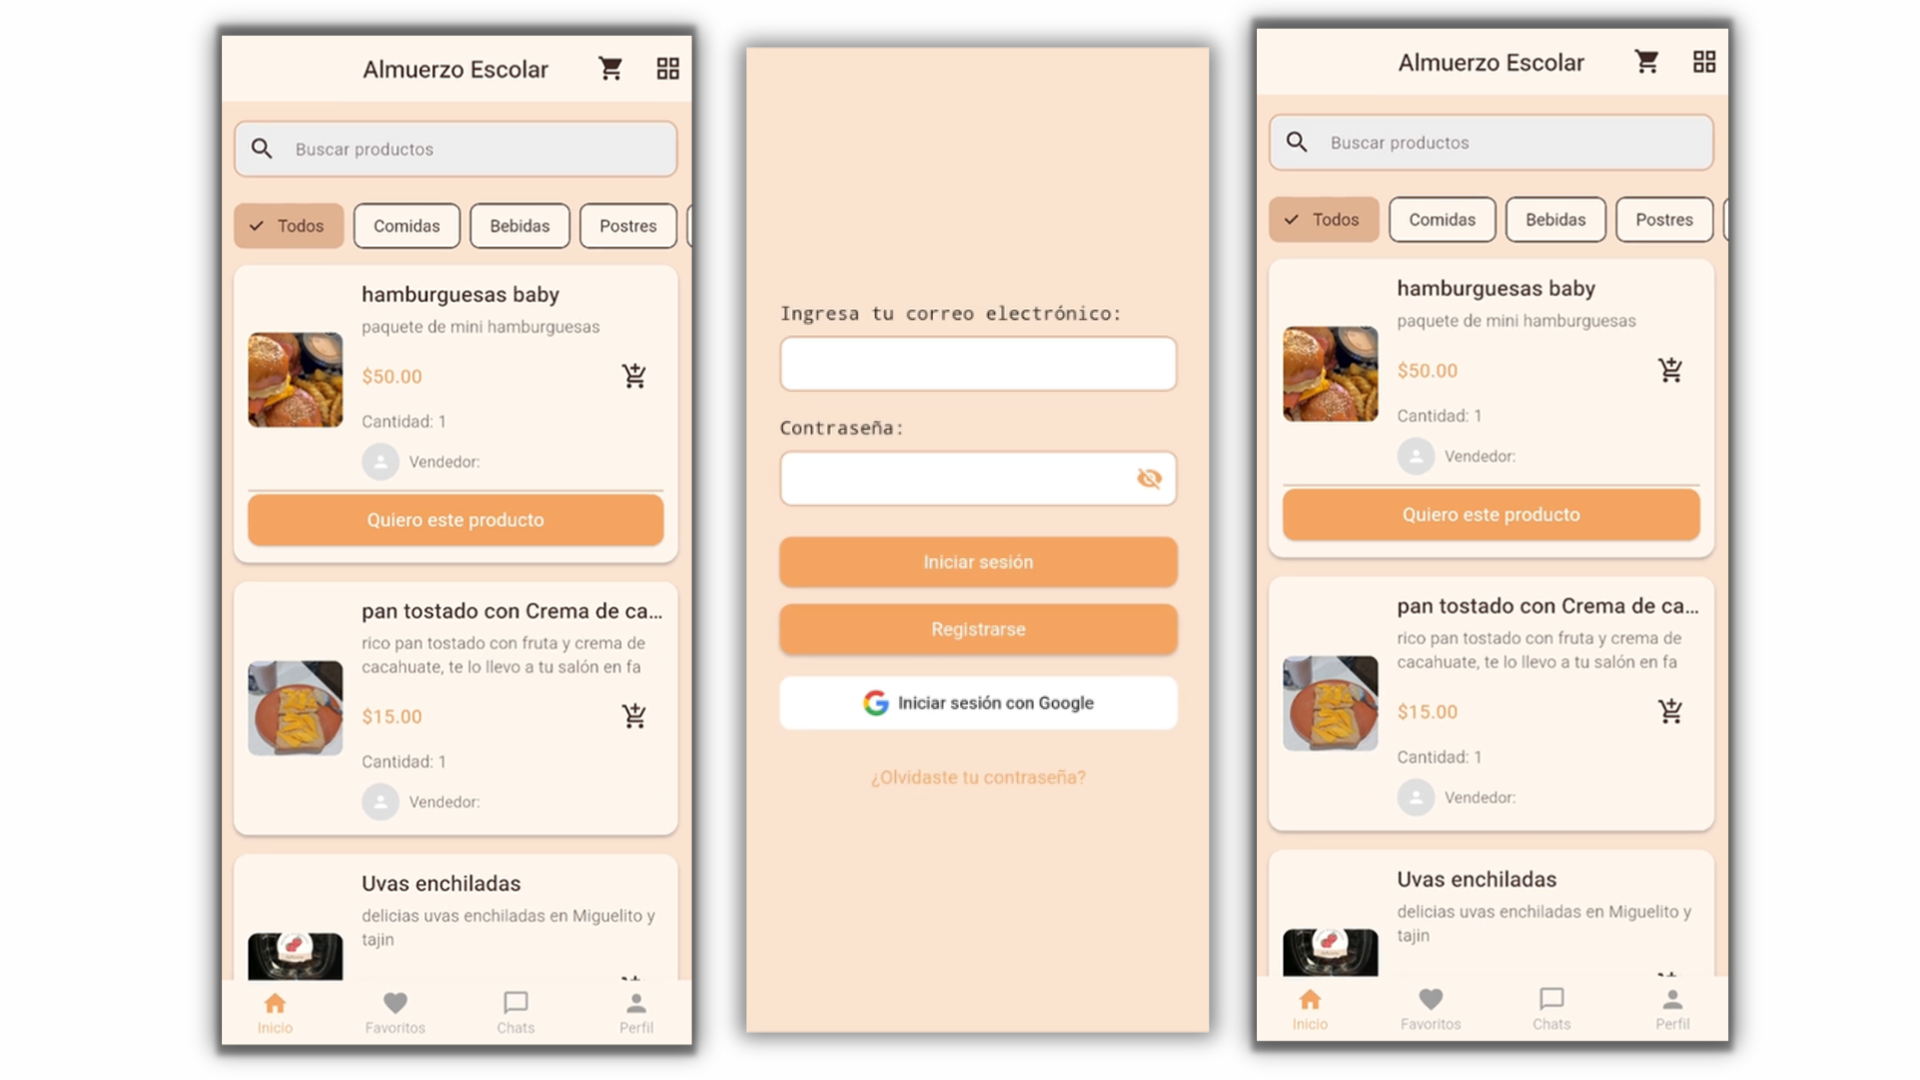
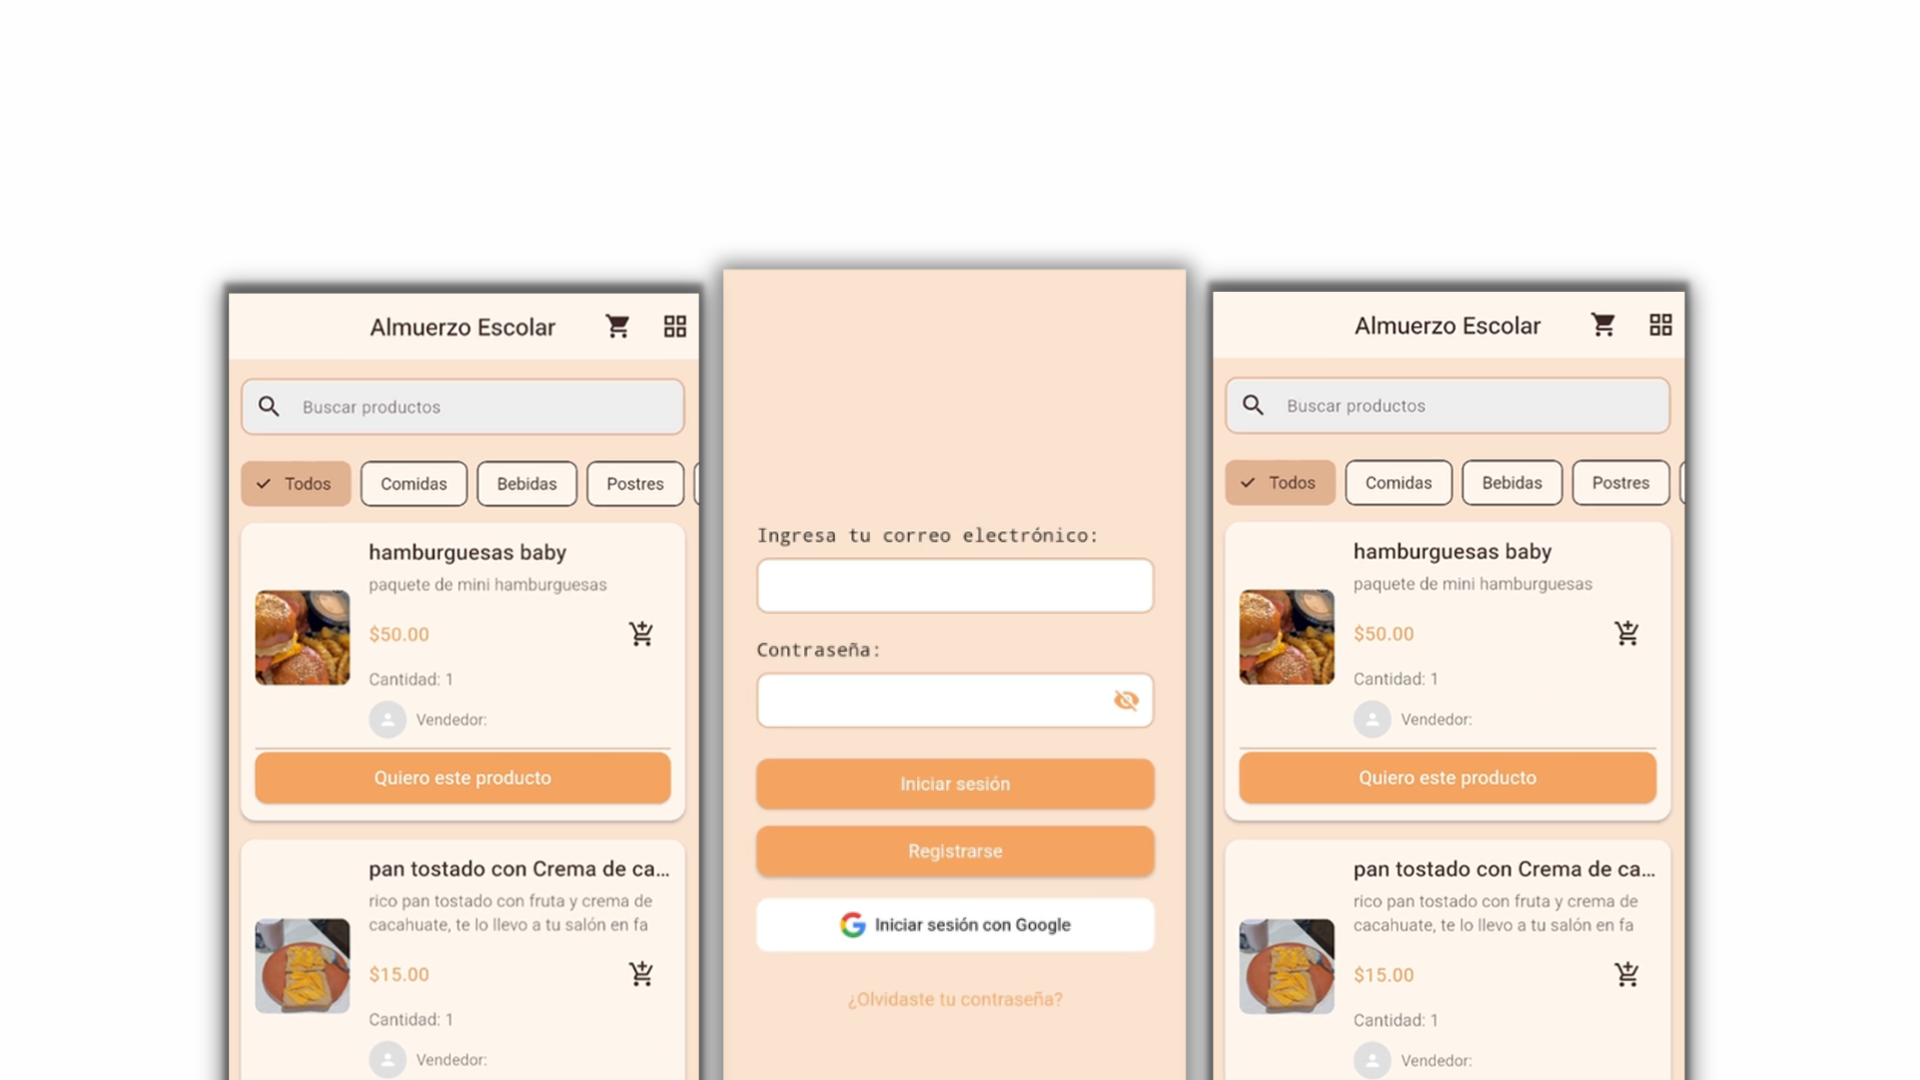
Actualización de la página principal del portafolio

diff --git a/app/page.tsx b/app/page.tsx
@@ -789,7 +789,7 @@ export default function Portfolio() {
                 className={activeSection === "contacto" ? "active" : ""}
                 onClick={() => scrollToSection("contacto")}
               >
-                CONTACTO
+                {/*CONTACTO*/}
               </a>
             </li>
           </ul>
@@ -859,10 +859,11 @@ export default function Portfolio() {
         <section id="portafolio" className="section">
           <h2 className="section-title">Portafolio</h2>
           <div className="portfolio-grid">
-            <Dialog>
+            {/*Primer proyecto */}
+            <Dialog> 
               <DialogTrigger asChild>
                 <div className="portfolio-card" onClick={() => setOpenModal("almuercito")}>
-                  <div className="portfolio-card-image"> <img src="/almuercito.png" alt="Almuercito escolar" className="card-icon" /></div>
+                  <div className="portfolio-card-image"> <img src="/Almuercito.png" alt="Almuercito escolar" className="card-icon" /></div>
                   <div className="portfolio-card-content">
                     <h3 className="portfolio-card-title">Almuercito escolar</h3>
                     <p className="portfolio-card-desc">
@@ -890,17 +891,17 @@ export default function Portfolio() {
                     Desarrollé esta solución integral para optimizar la compr de alimentos entre estudiantes y cafetería dentro del
                     campus universitario, incluyendo funcionalidades como carrito de compras, gestión de inventario y notificaciones en tiempo real para mejorar la experiencia del usuario y la eficiencia operativa.
                   </p>
-                  <a href="TU_LINK_AQUI" target="_blank" rel="noreferrer" className="btn-github">
+                  <a href="https://github.com/CeAlejandroo/AlmuercitoEscolar" target="_blank" rel="noreferrer" className="btn-github">
                     Ver proyecto en GitHub
                   </a>
                 </div>
               </DialogContent>
             </Dialog>
-
-            <Dialog>
+            {/* Segundo proyecto */}
+            <Dialog> 
               <DialogTrigger asChild>
                 <div className="portfolio-card" onClick={() => setOpenModal("almuercito")}>
-                  <div className="portfolio-card-image"> <img src="/Almuercito.png" alt="Almuercito escolar" className="card-icon" /></div>
+                  <div className="portfolio-card-image"> <img src="/SistemaExperto.png" alt="Sistema experto nutricional" className="card-icon" /></div>
                   <div className="portfolio-card-content">
                     <h3 className="portfolio-card-title">Sistema experto nutricional</h3>
                     <p className="portfolio-card-desc">
@@ -932,11 +933,11 @@ export default function Portfolio() {
                 </div>
               </DialogContent>
             </Dialog>
-
-            <Dialog>  {/* Tercer proyecto */}
+            {/* Tercer proyecto */}
+            <Dialog>  
               <DialogTrigger asChild>
                 <div className="portfolio-card" onClick={() => setOpenModal("almuercito")}>
-                  <div className="portfolio-card-image"> <img src="/" alt="Aplicación web responsiva" className="card-icon" /></div>
+                  <div className="portfolio-card-image"> <img src="/FoodTruck.png" alt="Aplicación web responsiva" className="card-icon" /></div>
                   <div className="portfolio-card-content">
                     <h3 className="portfolio-card-title">Aplicación de ventas en línea para un restaurante</h3>
                     <p className="portfolio-card-desc">
@@ -955,7 +956,7 @@ export default function Portfolio() {
                 <DialogHeader>
                   <DialogTitle className="modal-title">Aplicación web responsiva</DialogTitle>
                   <DialogDescription className="modal-subtitle">
-                    Aplicación móvil para ventas de alimentos dentro de campus universitario.
+                    Desarrollo de una aplicación web responsiva para un restaurante para gestionar sus pedidos en linea.
                   </DialogDescription>
                 </DialogHeader>
 
@@ -964,6 +965,42 @@ export default function Portfolio() {
                     Desarrollé esta aplicación web responsiva para un restaurante local, permitiéndole gestionar sus pedidos de ventas en línea y llevar un seguimiento de los mismos para la satisfacción de sus clientes.
                   </p>
                   <a href="https://github.com/CeAlejandroo/aplicaci-n_comida_food_truck/tree/main" target="_blank" rel="noreferrer" className="btn-github">
+                    Ver proyecto en GitHub
+                  </a>
+                </div>
+              </DialogContent>
+            </Dialog>
+            {/* Cuarto proyecto */}
+            <Dialog>  
+              <DialogTrigger asChild>
+                <div className="portfolio-card" onClick={() => setOpenModal("almuercito")}>
+                  <div className="portfolio-card-image"> <img src="/GestorTareas.png" alt="Gestor de tareas" className="card-icon" /></div>
+                  <div className="portfolio-card-content">
+                    <h3 className="portfolio-card-title">Aplicación gestor de tareas</h3>
+                    <p className="portfolio-card-desc">
+                      Diseño frontend de una aplicación web para gestionar tareas diarias, con funcionalidades de creación, edición y eliminación de tareas, así como la capacidad de marcar tareas como completadas.
+                    </p>
+                    <div className="portfolio-card-tags">
+                      <span className="tag">Next.js</span>
+                      <span className="tag">React</span>
+                      <span className="tag">Supabase</span>
+                    </div>
+                  </div>
+                </div>
+              </DialogTrigger>
+              <DialogContent className="dialog-custom">
+                <DialogHeader>
+                  <DialogTitle className="modal-title">Gestor de tareas</DialogTitle>
+                  <DialogDescription className="modal-subtitle">
+                    Diseño frontend de una aplicación web "Gestor de tareas"
+                  </DialogDescription>
+                </DialogHeader>
+
+                <div className="modal-body">
+                  <p>
+                    Diseño frontend de una aplicación web para gestionar tareas diarias, con funcionalidades de creación, edición y eliminación de tareas, así como la capacidad de marcar tareas como completadas.
+                  </p>
+                  <a href="https://github.com/CeAlejandroo/GestorTareas" target="_blank" rel="noreferrer" className="btn-github">
                     Ver proyecto en GitHub
                   </a>
                 </div>
@@ -1118,7 +1155,7 @@ export default function Portfolio() {
           </div>
         </section>
 
-        {/* Contact Section */}
+        {/* Contact Section 
         <section id="contacto" className="section">
           <h2 className="section-title">Contacto</h2>
           <div className="contact-content">
@@ -1154,6 +1191,7 @@ export default function Portfolio() {
             </form>
           </div>
         </section>
+        */}
       </main>
     </div>
   )
